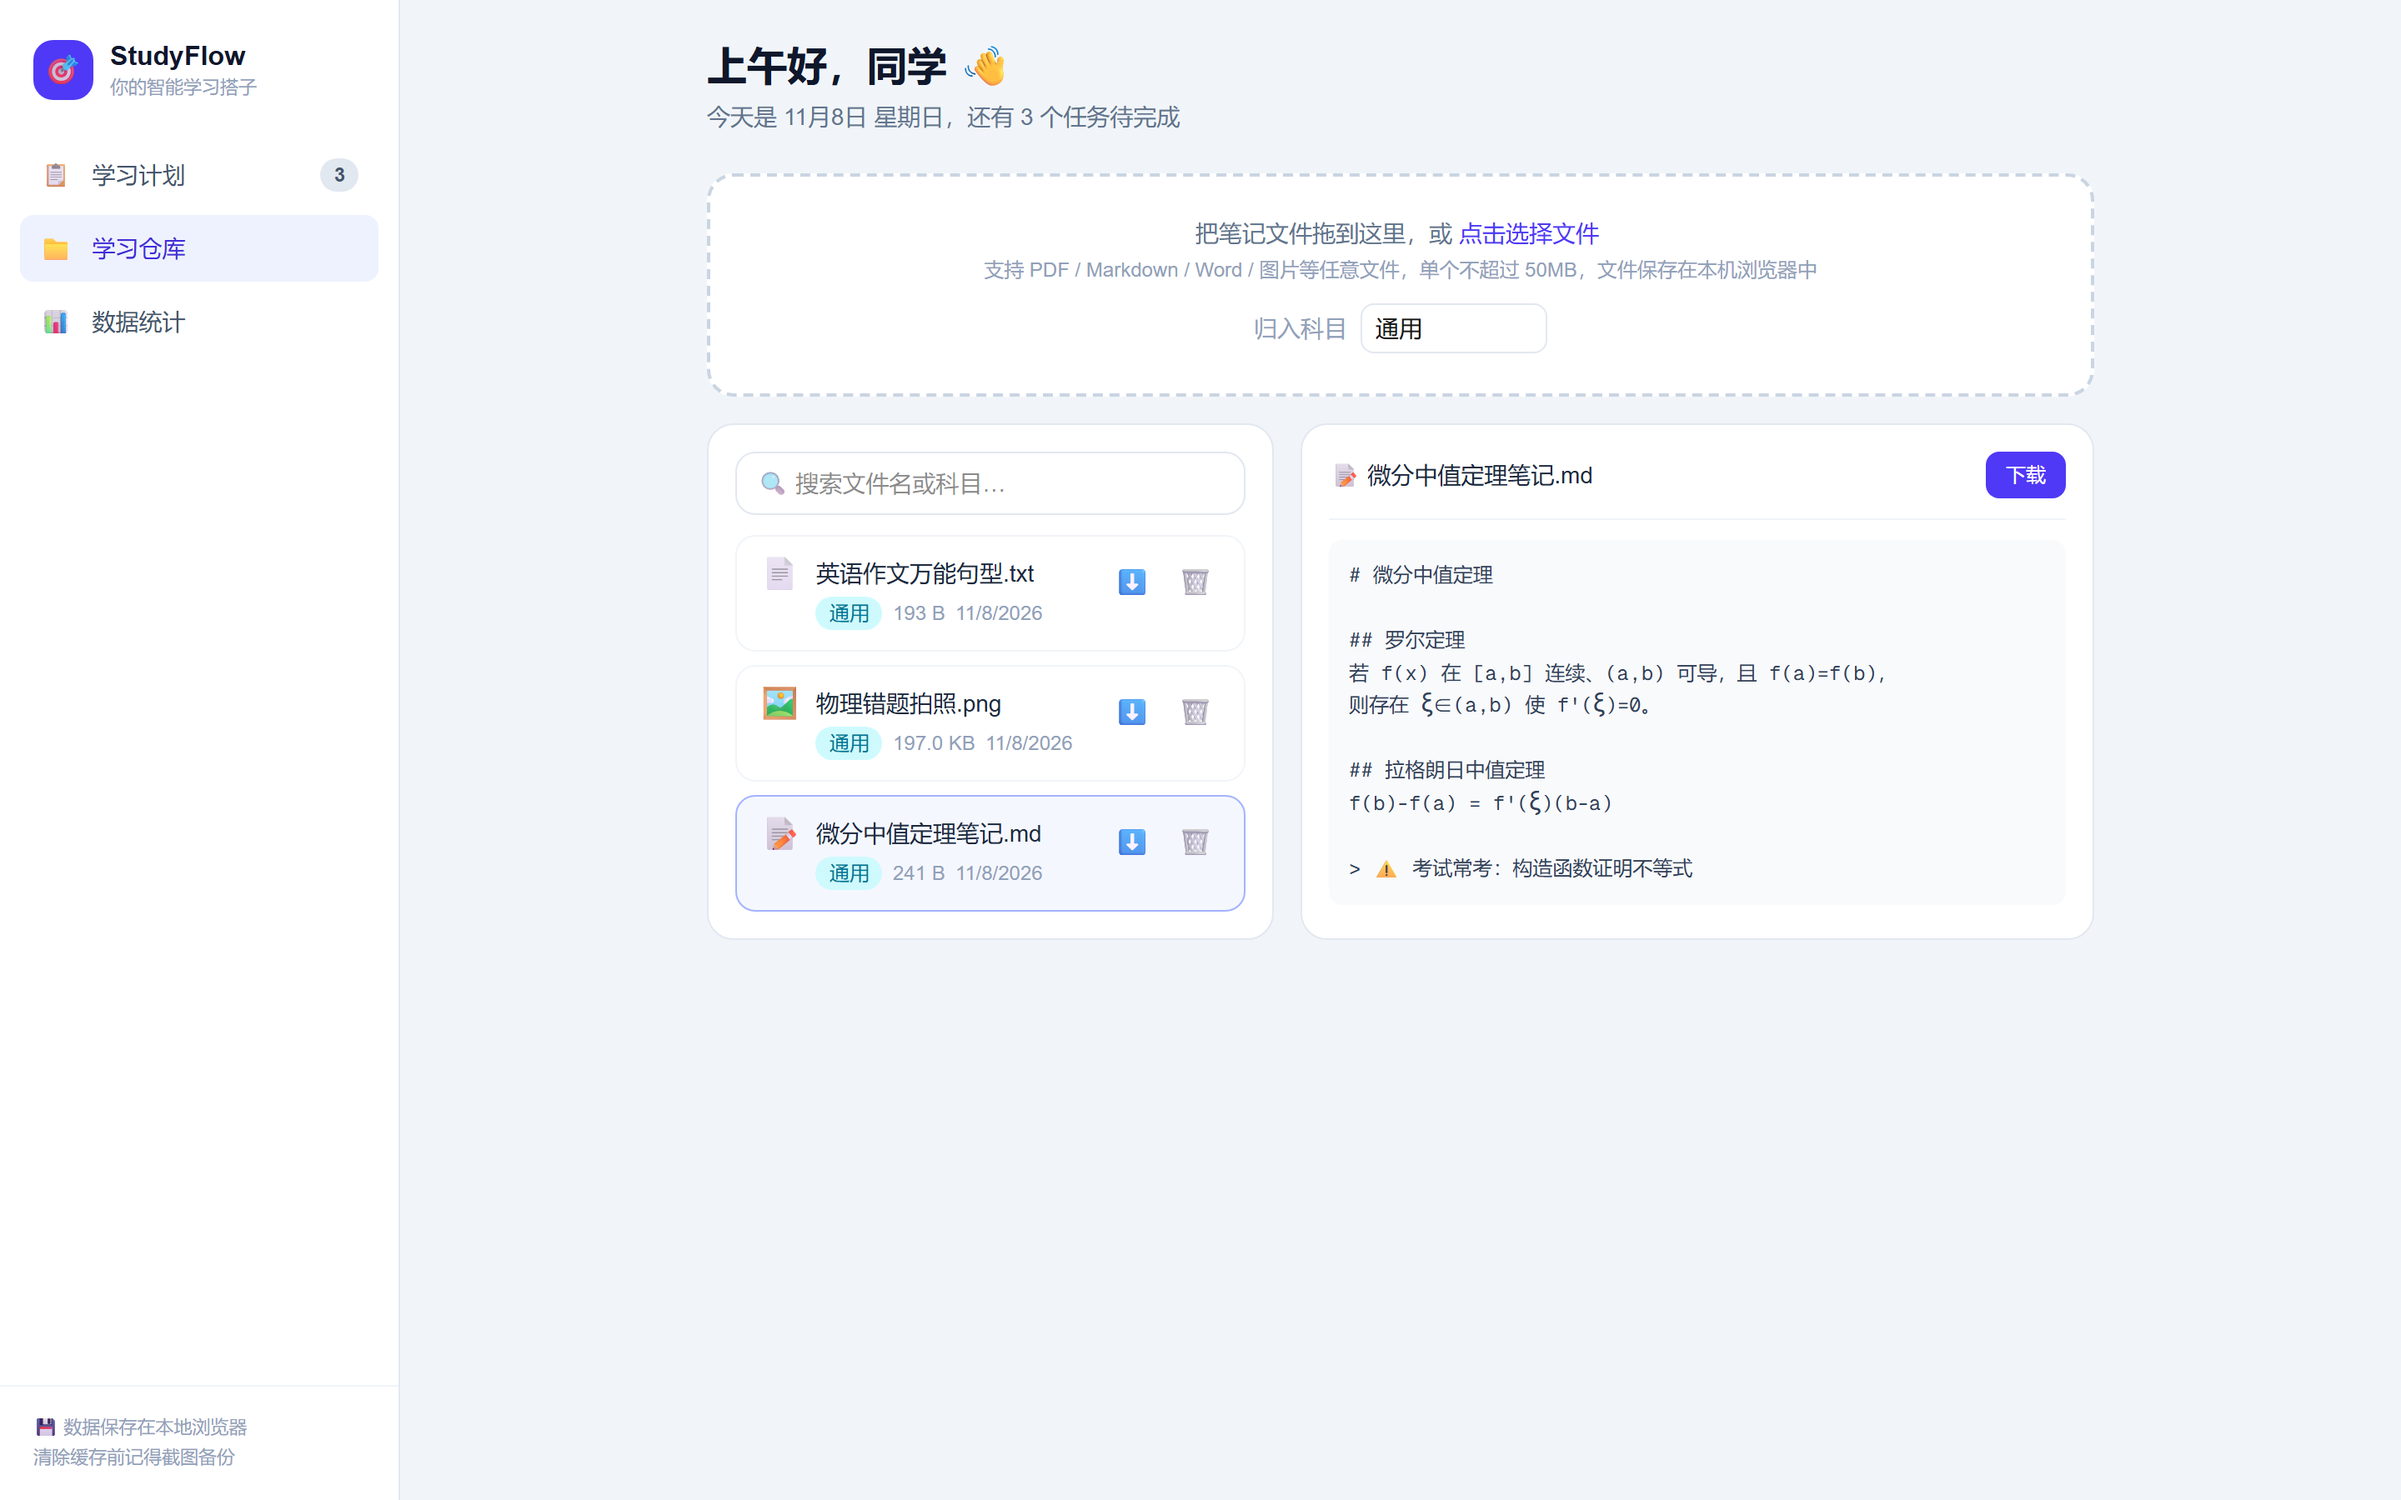
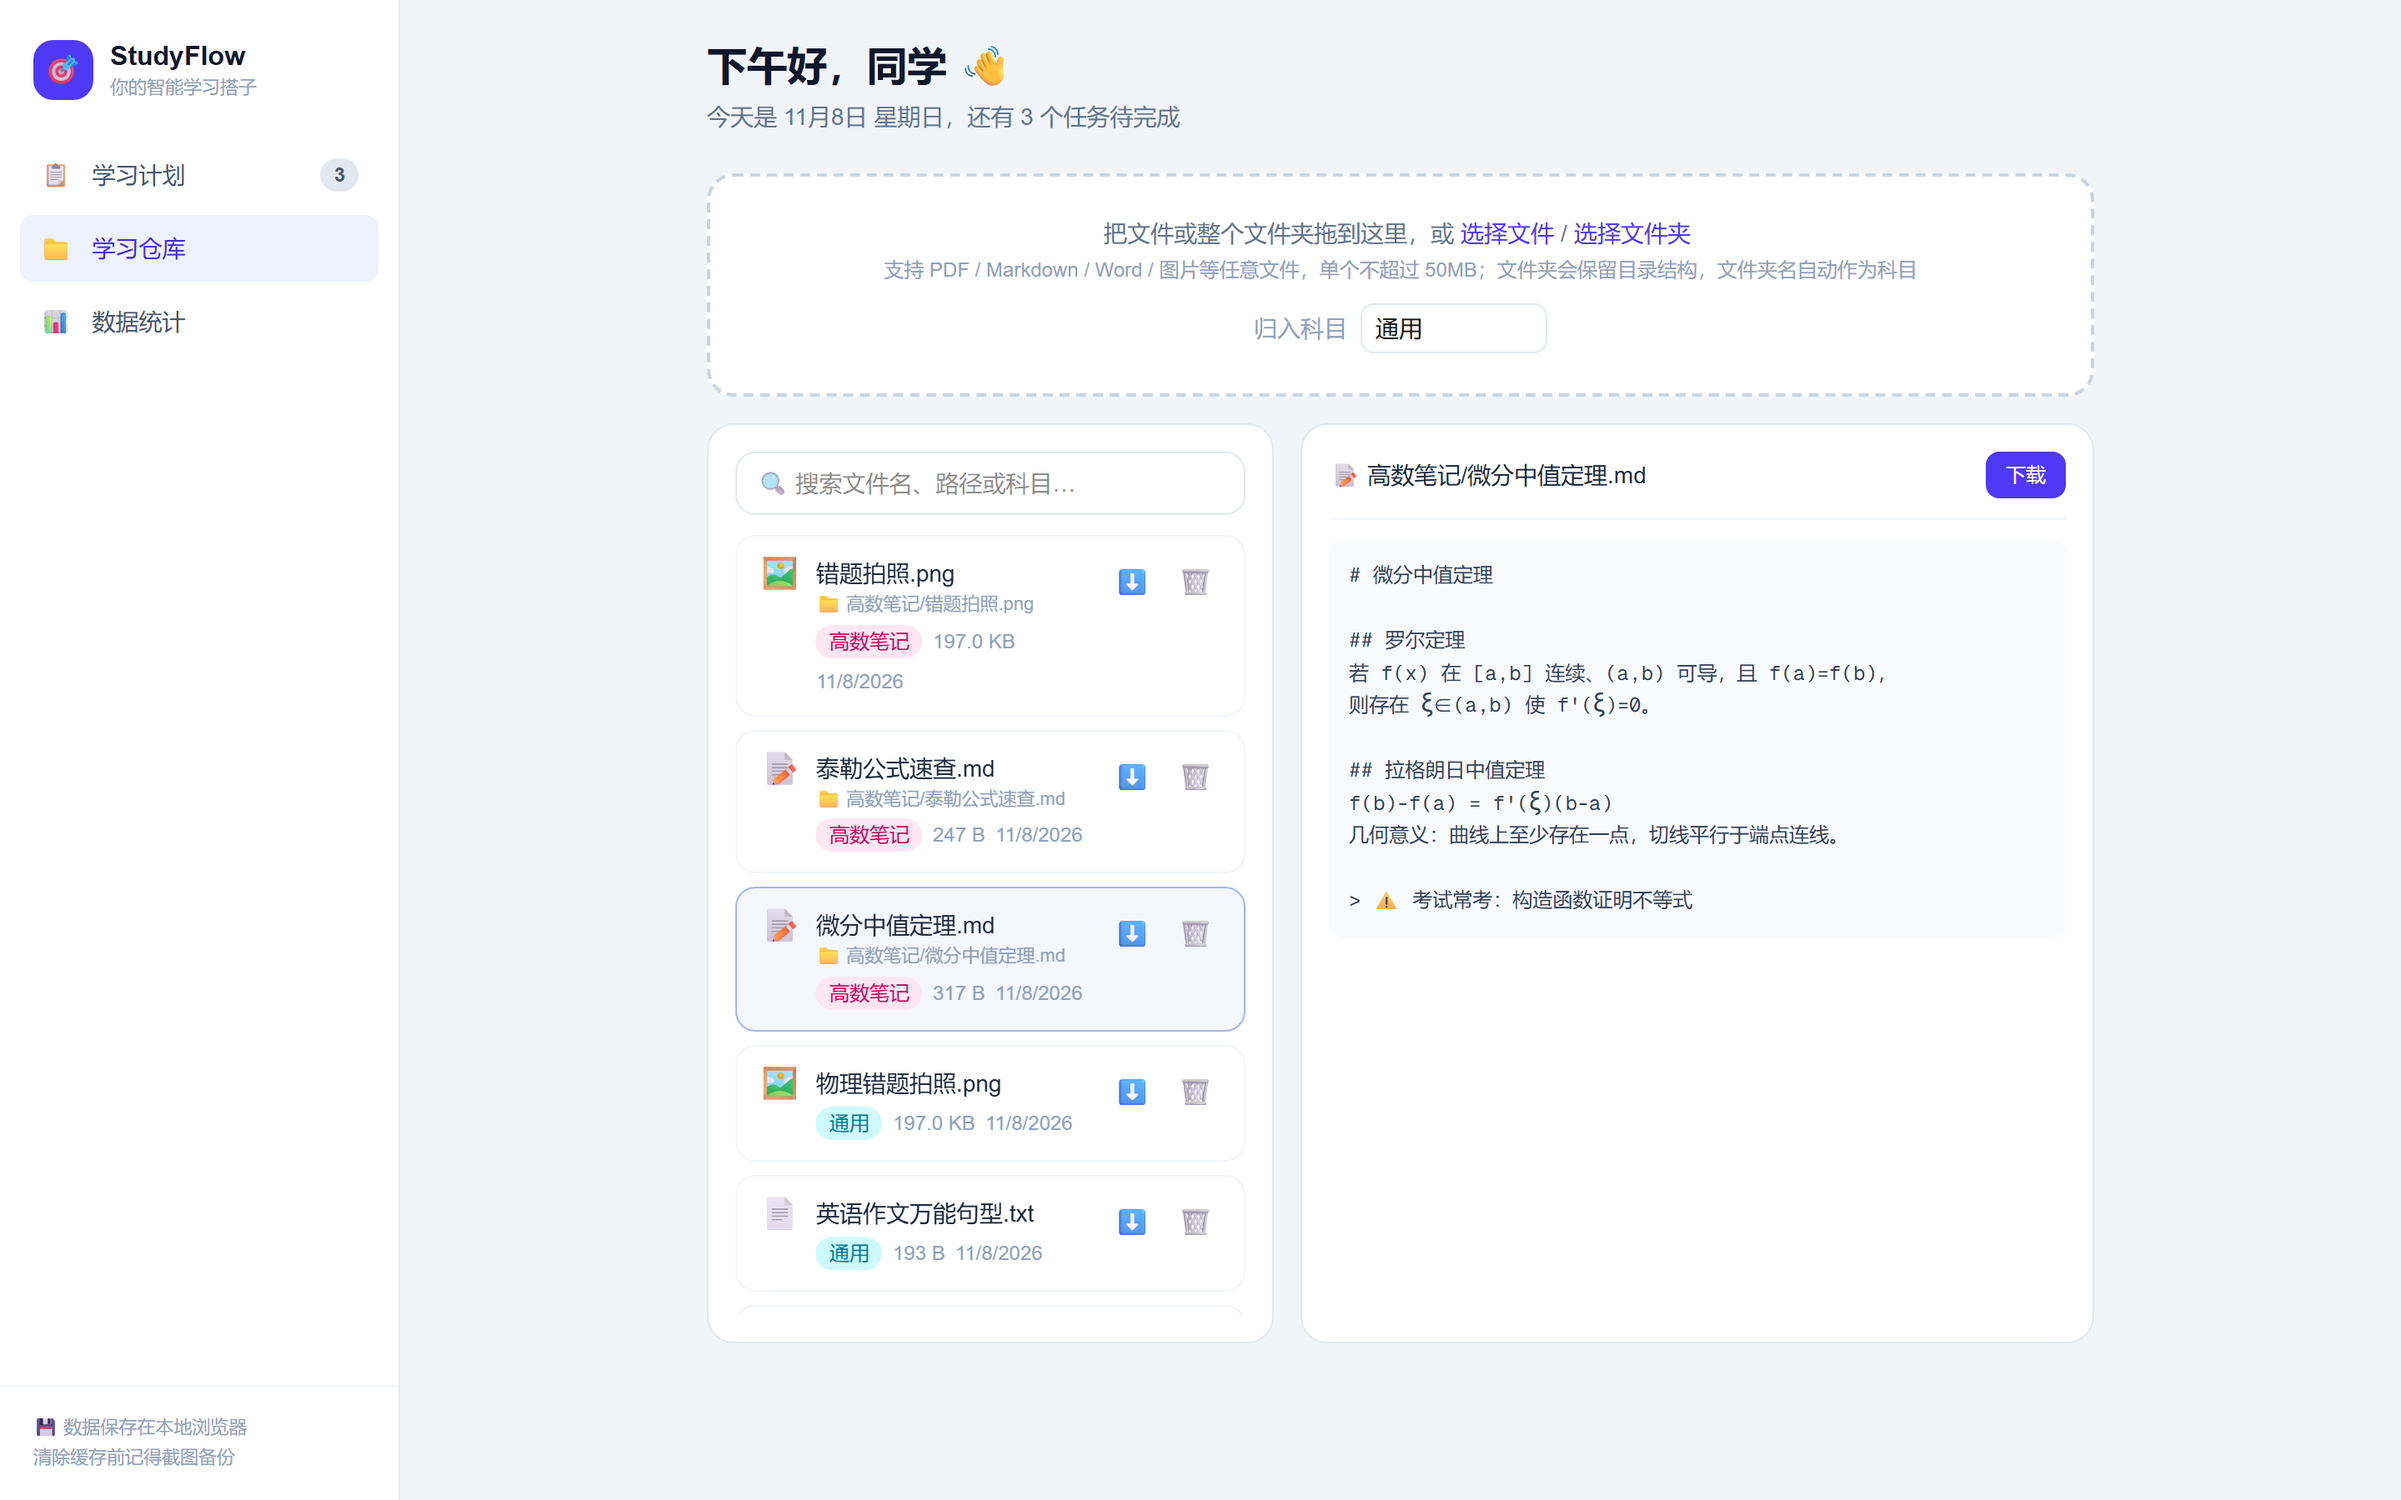
docs: v0.6 补充文件夹上传说明与新截图

diff --git a/README.md b/README.md
@@ -11,7 +11,7 @@
 - **智能优先级识别**：根据截止日远近 + 任务关键词（考试/论文/作业等）自动标注 高/中/低 优先级，录入时实时预览
 - **学习计划管理**：任务标题、科目、截止日期（可选精确到几时几分）、完成勾选、删除
 - **今日优先建议**：自动挑出最该先做的任务
-- **学习仓库**：上传存放笔记文件（PDF / Markdown / 错题照片等），支持拖拽上传、科目分类、搜索、在线预览与下载，文件保存在浏览器 IndexedDB
+- **学习仓库**：上传存放笔记文件（PDF / Markdown / 错题照片等），支持单文件与**整个文件夹**拖拽上传（保留目录结构）、科目分类、搜索、在线预览与下载，文件保存在浏览器 IndexedDB
 - **数据统计**：待办数、完成率、24h 内截止提醒、优先级分布、近 7 天完成任务趋势
 - **侧边栏仪表盘 UI**：桌面端侧边栏导航，移动端自适应
 - **本地持久化**：数据保存在浏览器 localStorage，无需注册、无需后端

diff --git a/docs/DEVLOG.md b/docs/DEVLOG.md
@@ -100,8 +100,9 @@
 **改动**：
 - 移除 v0.5 的网页笔记编辑器，学习仓库改为**文件仓库**
 - 支持拖拽 / 点选上传任意文件（单个 ≤50MB），上传时可归入科目
+- **支持上传整个文件夹**（拖拽或「选择文件夹」），保留目录结构展示，文件夹名自动作为科目
 - 在线预览：图片、Markdown/纯文本、PDF；其他类型（Word 等）可下载后查看
-- 文件列表：类型图标、科目分类（点击可改）、大小、日期、搜索、下载、删除
+- 文件列表：类型图标、目录路径、科目分类（点击可改）、大小、日期、搜索（含路径）、下载、删除
 - 存储方案：文件内容（Blob）存 **IndexedDB**（localStorage 存不下大文件），元信息仍走 localStorage；v0.5 的 notes 旧数据自动忽略
 
 ![v0.6 仓库视图](screenshots/v0.6-repo.png)
